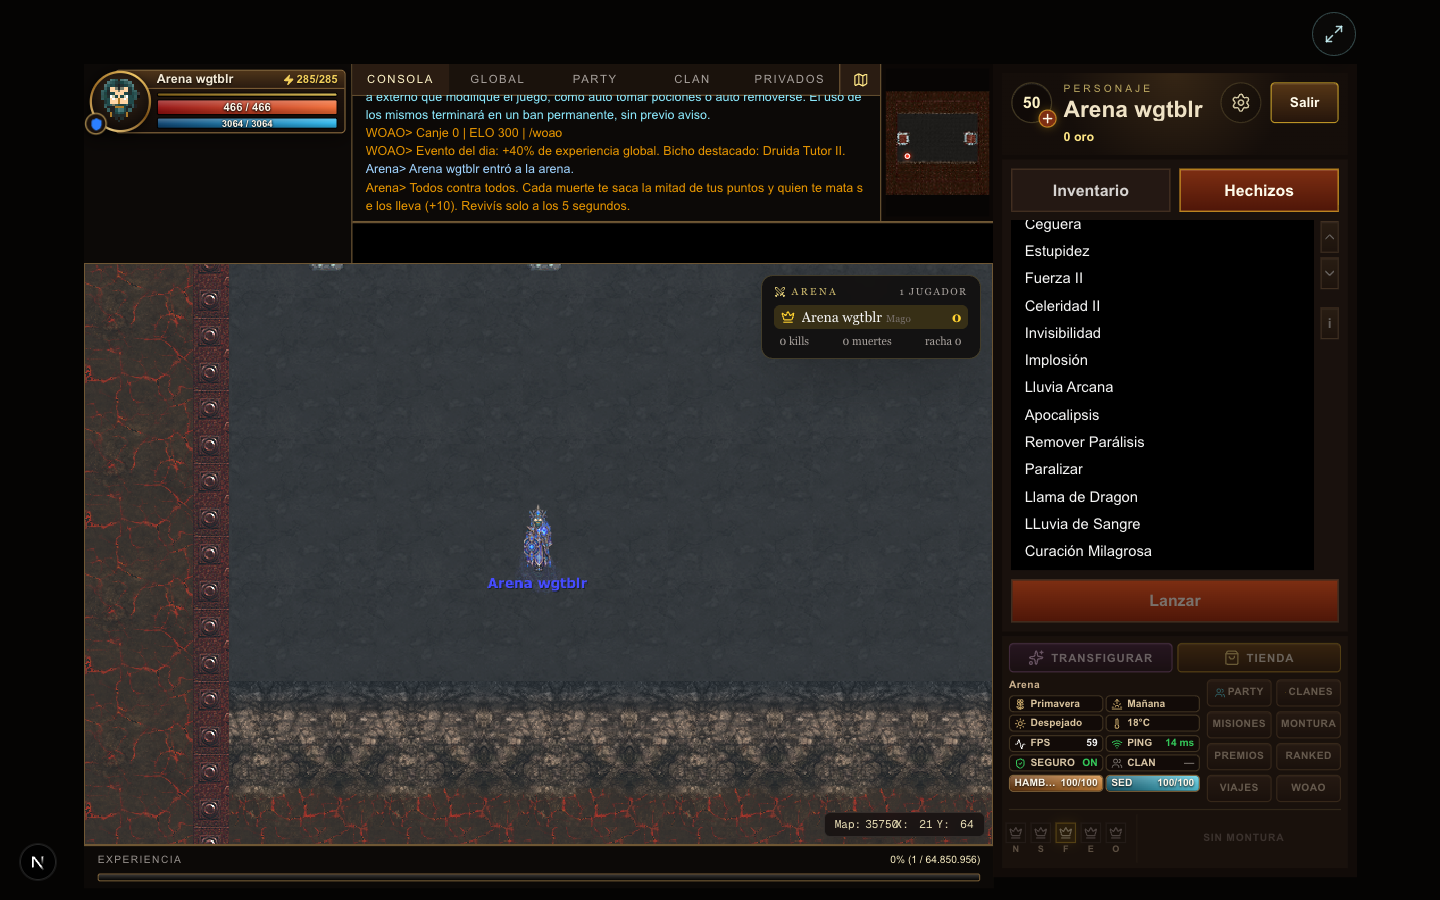
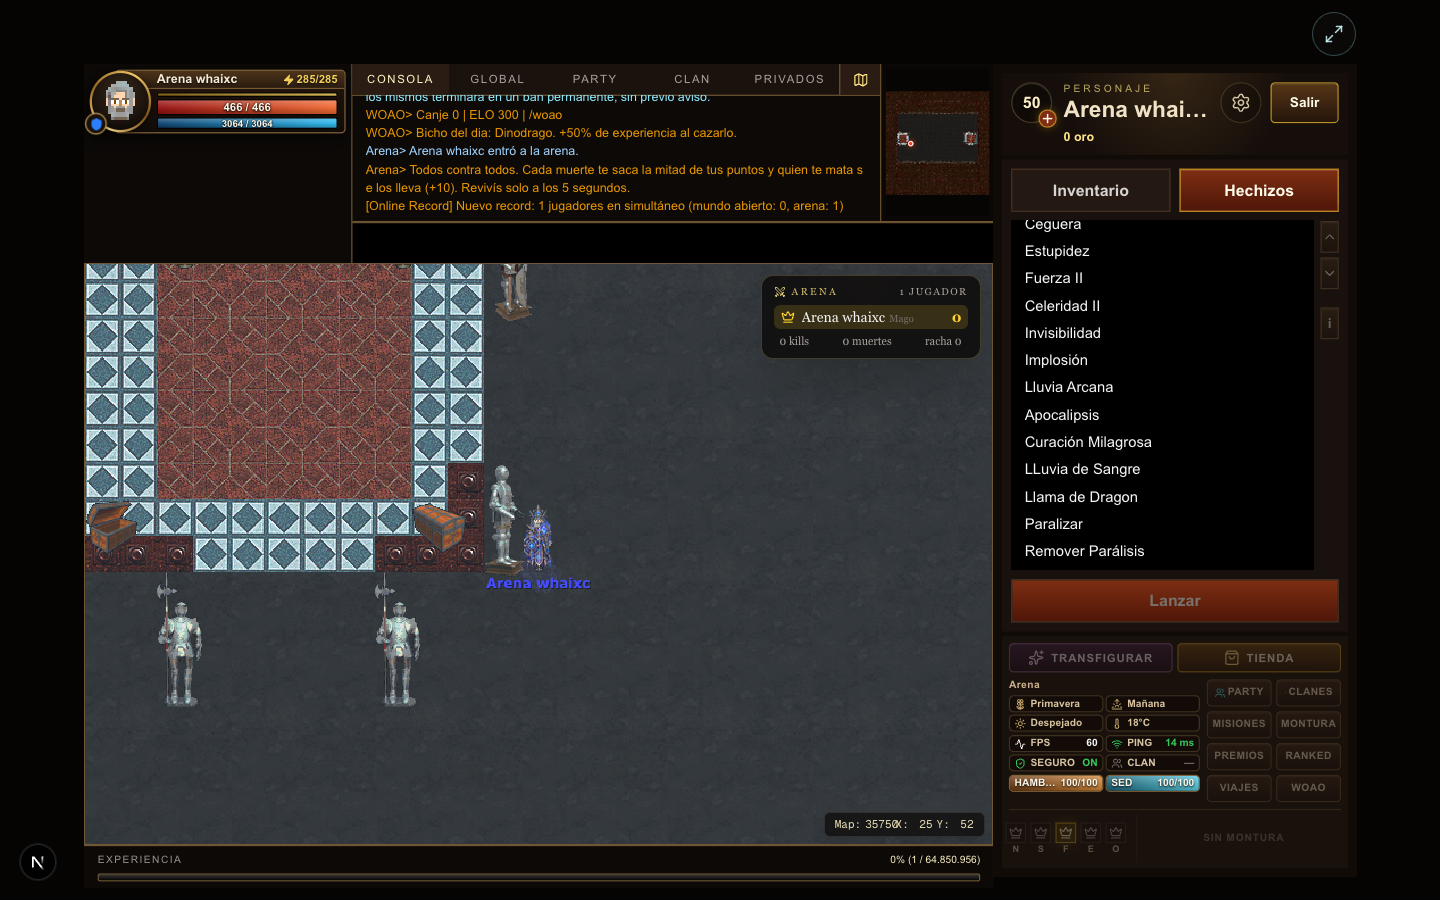
Arena: Remover Parálisis abajo de todo y el resto del bloque hacia arriba
Como en argentumonline.io, de abajo para arriba: Remover Parálisis, Paralizar, el
hechizo más poderoso, el que le sigue y la curación más poderosa.

diff --git a/server/src/arenaClasses.ts b/server/src/arenaClasses.ts
@@ -18,8 +18,8 @@ export type ArenaClass = {
     equipo: number[];
     /**
      * De arriba hacia abajo, como se ven en la lista. Van en los últimos casilleros, igual que en
-     * argentumonline.io, y terminan siempre en: Remover Parálisis, Paralizar, el hechizo más poderoso,
-     * el que le sigue y la curación más poderosa (los que la clase tenga). Arriba van los demás.
+     * argentumonline.io. De abajo para arriba: Remover Parálisis (el último de todos), Paralizar, el hechizo
+     * más poderoso, el que le sigue y la curación más poderosa (los que la clase tenga). Arriba van los demás.
      */
     hechizos: number[];
 };
@@ -51,8 +51,8 @@ export const ARENA_CLASSES: ArenaClass[] = [
         // Set Arcano y Anillo de Energía.
         equipo: [1750, 1752, 1749, 1751, 1221],
         // Ceguera, Estupidez, Fuerza II, Celeridad II, Invisibilidad, Implosión, Lluvia Arcana, Apocalipsis |
-        // Remover Parálisis, Paralizar, Llama de Dragón, Lluvia de Sangre, Curación Milagrosa.
-        hechizos: [30, 31, 22, 40, 14, 41, 84, 25, 10, 9, 45, 44, 32],
+        // Curación Milagrosa, Lluvia de Sangre, Llama de Dragón, Paralizar, Remover Parálisis.
+        hechizos: [30, 31, 22, 40, 14, 41, 84, 25, 32, 44, 45, 9, 10],
     },
     {
         idClase: 2,
@@ -63,8 +63,8 @@ export const ARENA_CLASSES: ArenaClass[] = [
         // Set Templario.
         equipo: [1758, 1760, 1757, 1759],
         // Ceguera, Estupidez, Fuerza II, Celeridad II, Invisibilidad, Curación Milagrosa, Apocalipsis |
-        // Remover Parálisis, Paralizar, Purificar, Martillo de luz celestial, Curación Divina.
-        hechizos: [30, 31, 22, 40, 14, 32, 25, 10, 9, 75, 85, 39],
+        // Curación Divina, Martillo de luz celestial, Purificar, Paralizar, Remover Parálisis.
+        hechizos: [30, 31, 22, 40, 14, 32, 25, 39, 85, 75, 9, 10],
     },
     {
         idClase: 3,
@@ -85,8 +85,8 @@ export const ARENA_CLASSES: ArenaClass[] = [
         // Set del Umbral.
         equipo: [1778, 1780, 1777, 1779],
         // Fuerza II, Celeridad II, Invisibilidad, Inmovilizar |
-        // Remover Parálisis, Paralizar, Destello infernal, Apocalipsis, Restauración.
-        hechizos: [22, 40, 14, 66, 10, 9, 73, 25, 60],
+        // Restauración, Apocalipsis, Destello infernal, Paralizar, Remover Parálisis.
+        hechizos: [22, 40, 14, 66, 60, 25, 73, 9, 10],
     },
     {
         idClase: 6,
@@ -97,8 +97,8 @@ export const ARENA_CLASSES: ArenaClass[] = [
         // Set Bardo.
         equipo: [1766, 1768, 1765, 1767],
         // Ceguera, Estupidez, Fuerza II, Celeridad II, Invisibilidad, Inmovilizar |
-        // Remover Parálisis, Paralizar, Apocalipsis, MINIApocalipsis, Curación Milagrosa.
-        hechizos: [30, 31, 22, 40, 14, 66, 10, 9, 25, 33, 32],
+        // Curación Milagrosa, MINIApocalipsis, Apocalipsis, Paralizar, Remover Parálisis.
+        hechizos: [30, 31, 22, 40, 14, 66, 32, 33, 25, 9, 10],
     },
     {
         idClase: 7,
@@ -109,8 +109,8 @@ export const ARENA_CLASSES: ArenaClass[] = [
         // Set Silvestre y Anillo de Energía.
         equipo: [1754, 1756, 1753, 1755, 1221],
         // Fuerza II, Celeridad II, Invisibilidad, Implosión, Apocalipsis, Enredar |
-        // Remover Parálisis, Paralizar, Lluvia de Sangre, Lluvia Arcana, Curación Milagrosa.
-        hechizos: [22, 40, 14, 41, 25, 49, 10, 9, 44, 84, 32],
+        // Curación Milagrosa, Lluvia Arcana, Lluvia de Sangre, Paralizar, Remover Parálisis.
+        hechizos: [22, 40, 14, 41, 25, 49, 32, 84, 44, 9, 10],
     },
     {
         idClase: 8,
@@ -121,8 +121,8 @@ export const ARENA_CLASSES: ArenaClass[] = [
         // Set Paladín.
         equipo: [1762, 1764, 1761, 1763],
         // Fuerza II, Celeridad II, Invisibilidad, Inmovilizar |
-        // Remover Parálisis, Paralizar, Apocalipsis, MINIApocalipsis, Restauración.
-        hechizos: [22, 40, 14, 66, 10, 9, 25, 33, 60],
+        // Restauración, MINIApocalipsis, Apocalipsis, Paralizar, Remover Parálisis.
+        hechizos: [22, 40, 14, 66, 60, 33, 25, 9, 10],
     },
     {
         idClase: 9,
@@ -142,9 +142,9 @@ export const ARENA_CLASSES: ArenaClass[] = [
         cuerpo: 32,
         // No tiene set: Espada, Casco y Escudo del Caído (legendarios) y Placas Azules.
         equipo: [1503, 705, 1490, 1466],
-        // Bomba de Humo, Disparo Tóxico | Disparo de Conmoción (paraliza), Disparo Certero, Restauración.
+        // Bomba de Humo, Disparo Tóxico | Restauración, Disparo Certero, Disparo de Conmoción (paraliza).
         // El pirata no tiene Remover Parálisis y Disparo Certero es su único hechizo de daño.
-        hechizos: [35, 46, 71, 72, 60],
+        hechizos: [35, 46, 60, 72, 71],
     },
     {
         idClase: 20,
@@ -166,8 +166,8 @@ export const ARENA_CLASSES: ArenaClass[] = [
         equipo: [1818, 1820, 1817, 1819, 1221],
         // Curar efectos, Invisibilidad, Evasión de viento, Escudo de energía, Escudo físico, Escudo mágico,
         // Prisión de agua, Ráfaga de viento, Rayo de Fuego, Descarga eléctrica, Rayo Eléctrico, Llamarada |
-        // Remover Parálisis, Petrificar (paraliza), Incinerar, Ventisca. El chamán no tiene curaciones.
-        hechizos: [1, 14, 83, 78, 77, 76, 80, 79, 63, 23, 64, 51, 10, 65, 61, 62],
+        // Ventisca, Incinerar, Petrificar (paraliza), Remover Parálisis. El chamán no tiene curaciones.
+        hechizos: [1, 14, 83, 78, 77, 76, 80, 79, 63, 23, 64, 51, 62, 61, 65, 10],
     },
 ];
 

diff --git a/server/src/arenaClasses.test.ts b/server/src/arenaClasses.test.ts
@@ -105,9 +105,9 @@ test("la plantilla lleva el equipo puesto, pociones y una cabeza de la raza", ()
     assert.equal(buildArenaTemplate(5), null, "el ladrón no es una clase de la arena");
 });
 
-// Pedido de Leandro: la lista termina en Remover Parálisis, Paralizar, el hechizo más poderoso, el que le sigue
-// y la curación más poderosa, en ese orden y con los que la clase tenga.
-test("los hechizos terminan en remover, paralizar, los dos más fuertes y la mejor curación", () => {
+// Pedido de Leandro, como en argentumonline.io: de abajo para arriba van Remover Parálisis (el último de todos),
+// Paralizar, el hechizo más poderoso, el que le sigue y la curación más poderosa, con los que la clase tenga.
+test("de abajo para arriba: remover, paralizar, los dos más fuertes y la mejor curación", () => {
     const REMOVER = 10;
     const PARALIZAR = 9;
     const average = (spell: Record<string, number>) => (Number(spell.minHp) + Number(spell.maxHp)) / 2;
@@ -123,9 +123,10 @@ test("los hechizos terminan en remover, paralizar, los dos más fuertes y la mej
         const bestHeal = list
             .filter((spell) => Number(spell.subeHp) === 1)
             .sort((left, right) => average(right) - average(left))[0];
-        const expected = [list.find((spell) => spell.id === REMOVER), paralyze, ...strongest, bestHeal]
+        const fromBottom = [list.find((spell) => spell.id === REMOVER), paralyze, ...strongest, bestHeal]
             .filter((spell) => spell)
             .map((spell) => spell!.id);
+        const expected = [...fromBottom].reverse();
 
         assert.deepEqual(arenaClass.hechizos.slice(-expected.length), expected, arenaClass.nombre);
     }
@@ -140,4 +141,5 @@ test("los hechizos van en los últimos casilleros, como en argentumonline.io", (
     assert.equal(Math.max(...slots), ARENA_SPELL_SLOTS);
     assert.equal(Math.min(...slots), ARENA_SPELL_SLOTS - hechizos.length + 1);
     assert.equal(mage.spells[String(ARENA_SPELL_SLOTS)].idSpell, hechizos[hechizos.length - 1]);
+    assert.equal(mage.spells[String(ARENA_SPELL_SLOTS)].idSpell, 10, "Remover Parálisis queda en el último casillero");
 });

diff --git a/docs/ARENA.md b/docs/ARENA.md
@@ -19,7 +19,7 @@ Reemplazó a las salas de arena (con contraseña, link y plantillas viejas), que
   - no se pueden tirar items y no se pierde nada al morir;
   - no hay zona segura, experiencia, oro, puntos de facción, hambre ni sed.
 - **Hechizos:** como en argentumonline.io, van en los últimos casilleros de la lista (del 50 para arriba). El que tiene hechizos entra con la pestaña abierta y la lista ya al final.
-  - La lista termina siempre en: Remover Parálisis, Paralizar, el hechizo más poderoso, el que le sigue y la curación más poderosa. Van los que la clase tenga, en ese orden.
+  - De abajo para arriba van: Remover Parálisis (el último de todos), Paralizar, el hechizo más poderoso, el que le sigue y la curación más poderosa. Van los que la clase tenga.
   - El resto va arriba de esos cinco.
   - `server/src/arenaClasses.test.ts` controla el orden con el daño y la curación de `spells.json`.
 - **Panel:** Transfigurar, Tienda, Party, Clanes, Misiones, Montura, Premios, Ranked, Viajes, WoAO, los castillos y la montura quedan deshabilitados (`arenaMode` en `InventoryFloatingPanel`).
